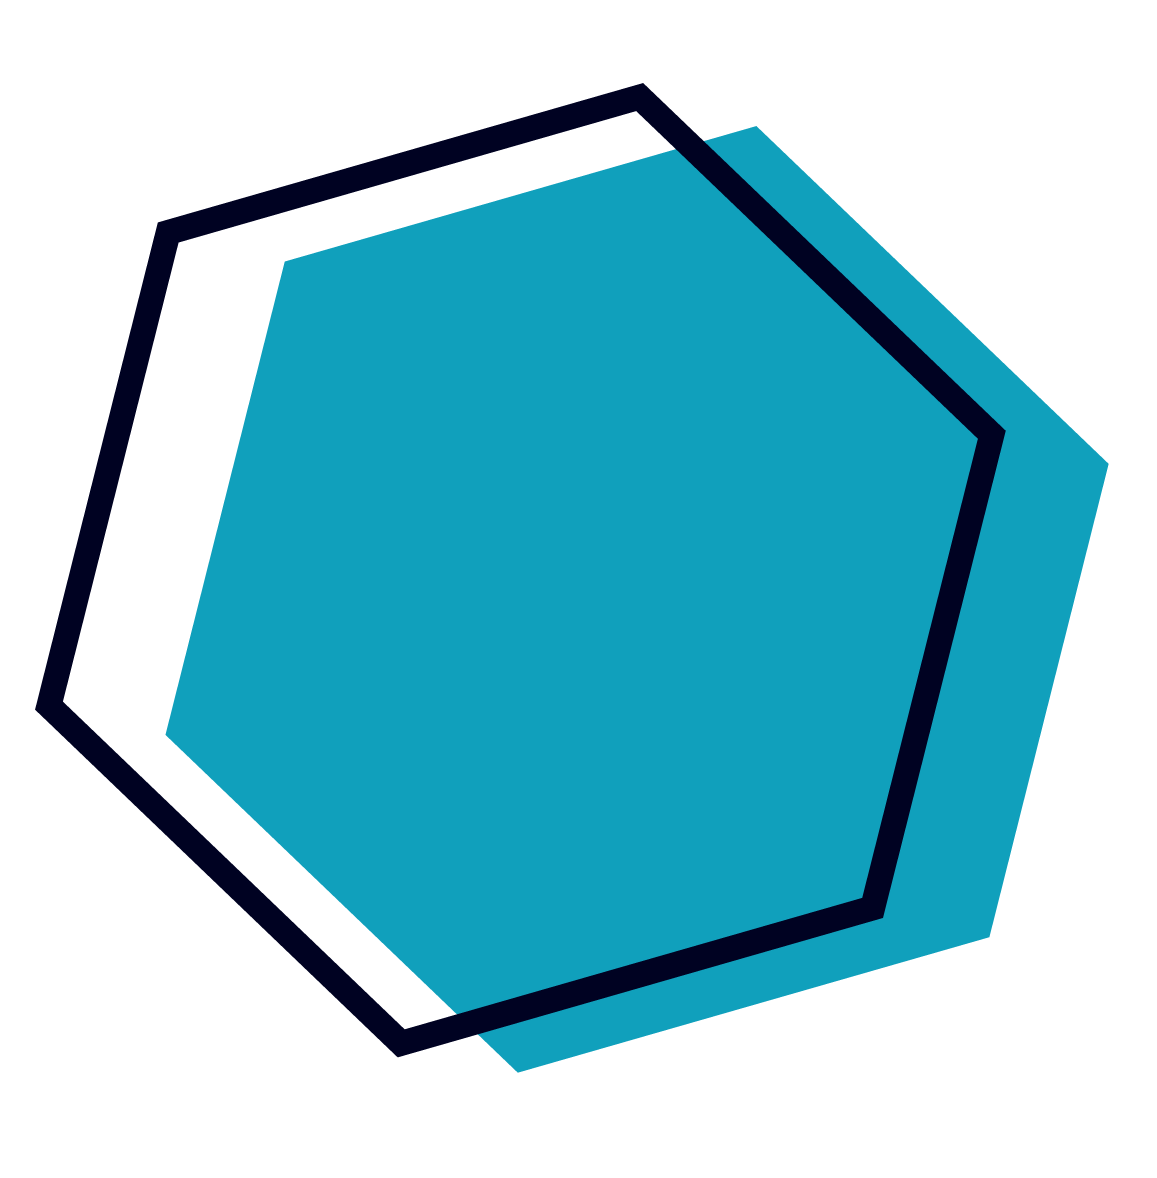
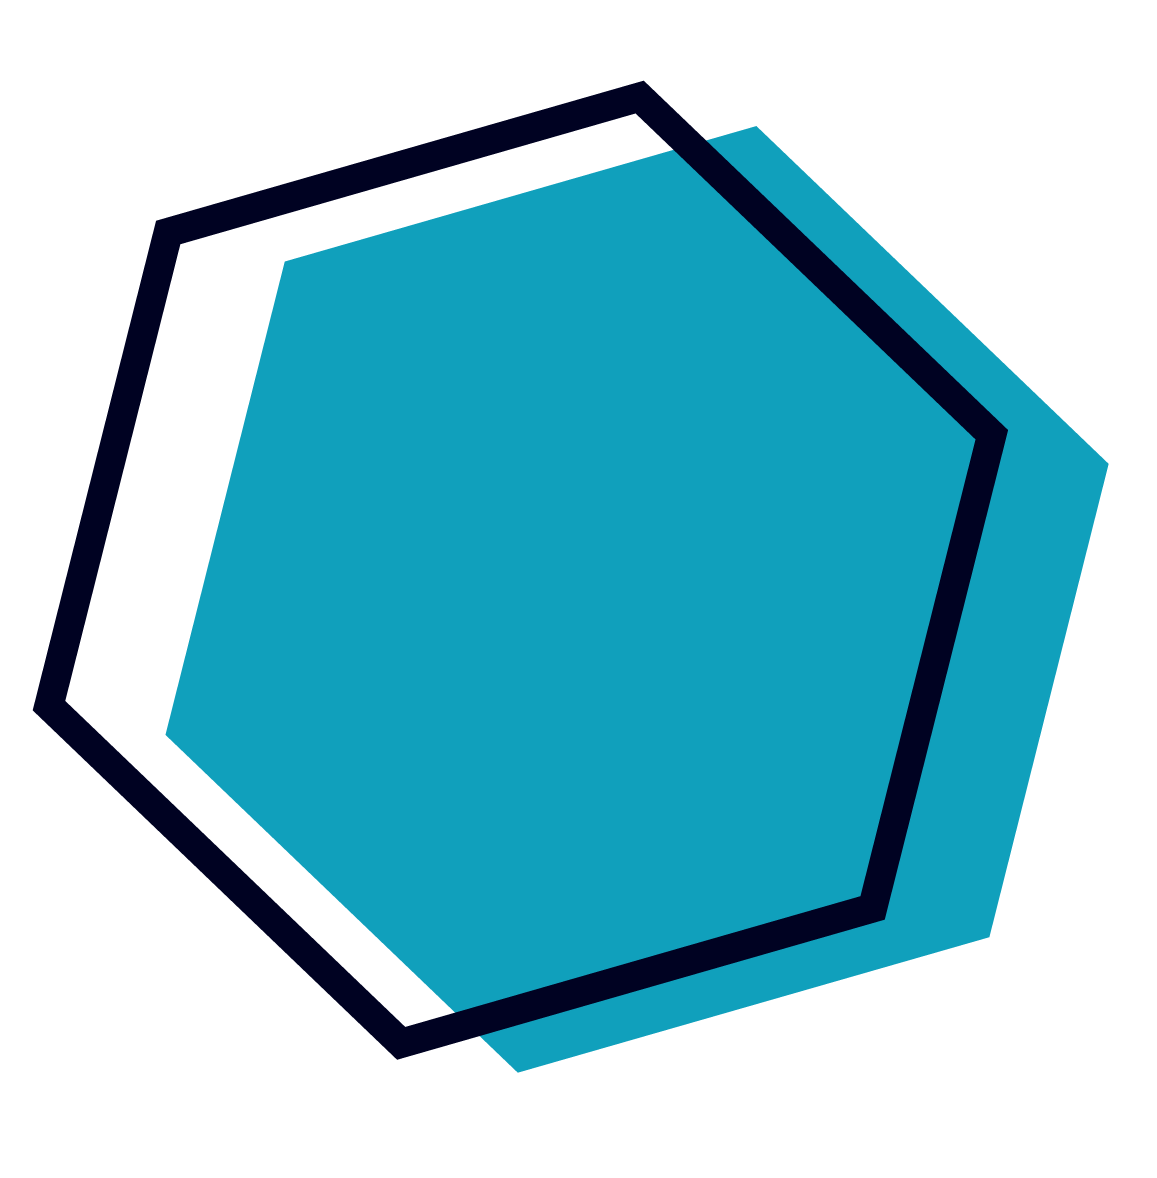
Changing hexagon

diff --git a/css/style.css b/css/style.css
@@ -721,7 +721,7 @@ footer p {
     width: 75%;
     font-size: 22px;
     line-height: 50px;
-    height: 90vh;
+    height: 90%;
   }
 
   .hex-1 {
